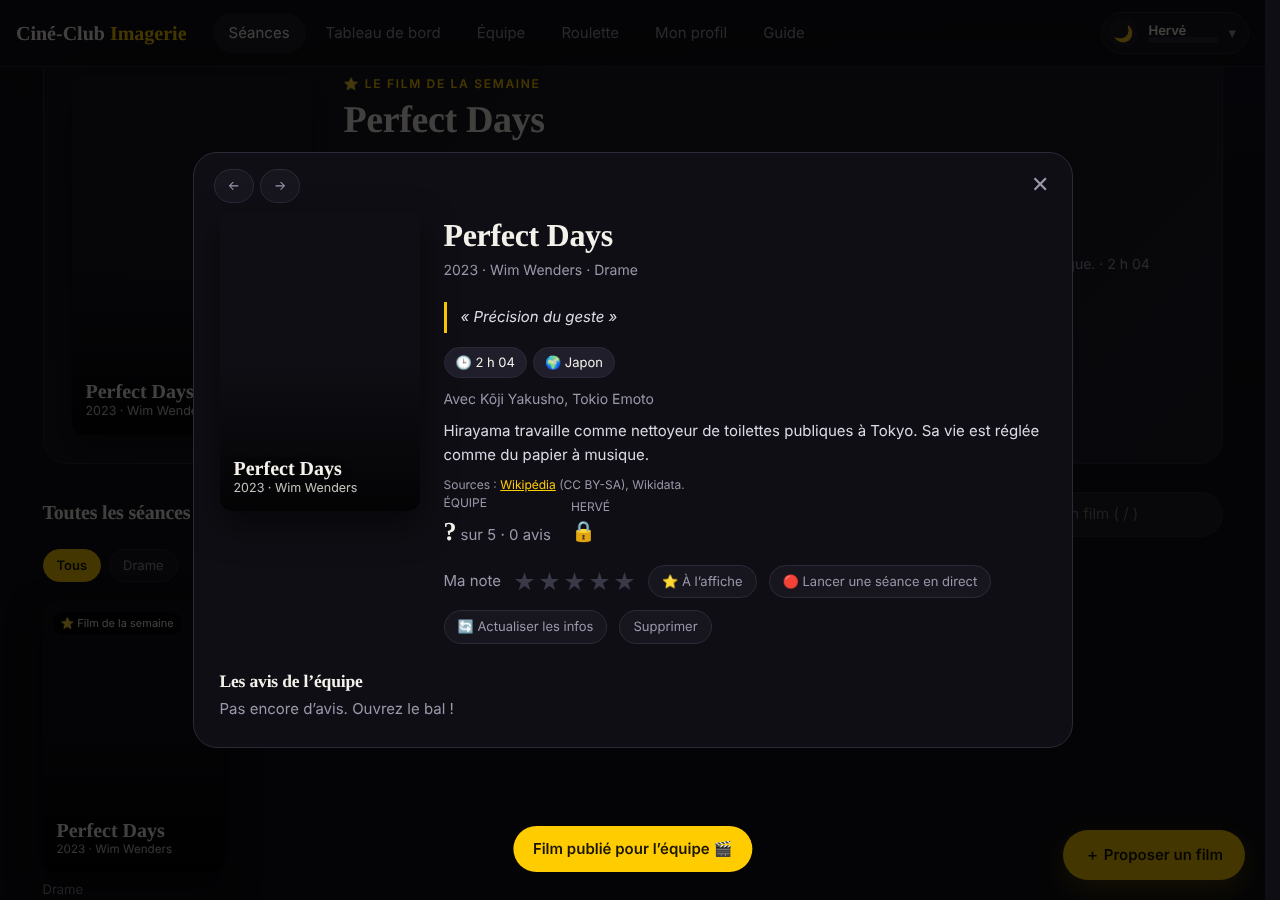
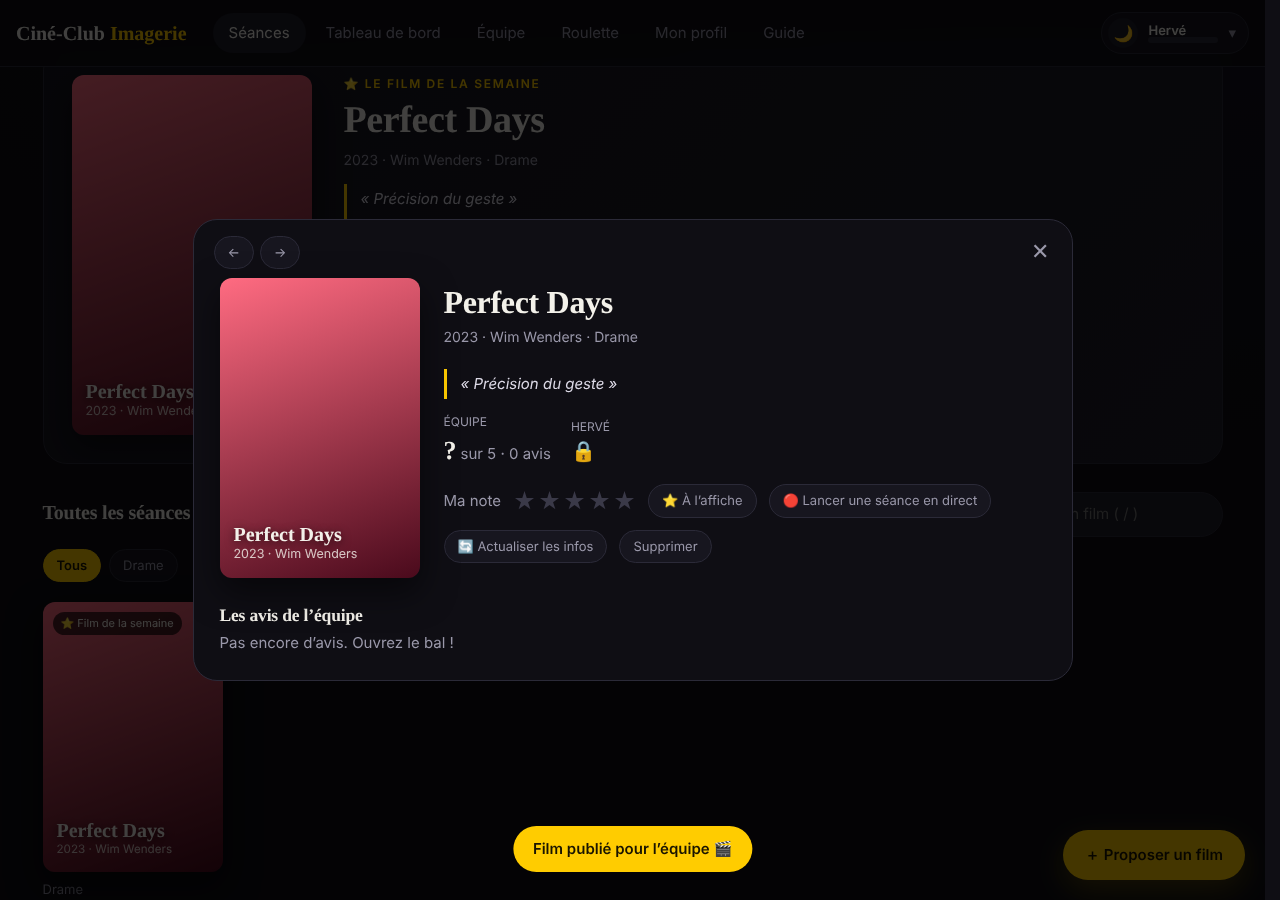
Recherche de films plus pertinente : résultats dédoublonnés, classés, avec affiches
Claude-Session: https://claude.ai/code/session_01QrDSt7c3W28WVm6o6LrgKo

Changed region(s): [[0.0312, 0.0622, 0.8125, 0.9956], [0.3438, 0.6844, 0.4688, 0.7156], [0.5, 0.6844, 0.5312, 0.7156]]

diff --git a/index.html b/index.html
@@ -126,6 +126,7 @@ nav button{padding:9px 16px}
 .mi{display:block;width:100%;text-align:left;padding:10px 12px;border-radius:10px}.mi:hover{background:var(--panel2)}
 #tip{position:fixed;z-index:300;max-width:260px;background:var(--panel2);color:var(--tx);border:1px solid var(--acc);padding:7px 11px;border-radius:10px;font-size:13px;line-height:1.4;box-shadow:0 8px 24px #000a;pointer-events:none;display:none}
 .fnav{position:absolute;left:20px;top:16px;display:flex;gap:6px}.sheet{padding-top:58px}
+.sug button{align-items:center}.sug button img,.sug .ph{width:44px;height:64px;flex:none;border-radius:6px;object-fit:cover;background:var(--panel2)}.sug .ph{display:grid;place-items:center;font-size:20px}
 </style>
 </head>
 <body>
@@ -434,7 +435,7 @@ function addModal(){const p=prefill||{};
   return`<div class="modal" data-act="close"><div class="sheet" data-stop style="width:min(620px,100%)" role="dialog" aria-label="Proposer un film"><button class="x" data-act="close" aria-label="Fermer">✕</button>
    <h2>Proposer un film</h2><p class="dim">Un titre, un mot pour l’équipe. Entrée pour publier.</p>
    <form id="addf" style="display:grid;gap:12px;margin-top:16px">
-    <div class="field"><label for="ft">Titre</label><input type="hidden" name="qid" id="fq" value="${e(p.qid||'')}"><input name="title" id="ft" required autocomplete="off" autofocus value="${e(p.title||'')}"><span class="dim" style="font-size:12px">Tapez 3 lettres : la base mondiale Wikidata propose les films et remplit les champs.</span></div>
+    <div class="field"><label for="ft">Titre</label><input type="hidden" name="qid" id="fq" value="${e(p.qid||'')}"><input name="title" id="ft" required autocomplete="off" autofocus value="${e(p.title||'')}"><span class="dim" style="font-size:12px">Tapez le titre : des propositions avec affiche apparaissent, un clic remplit les champs.</span></div>
     <div id="sug" class="sug"></div>
     <div class="field"><label for="fpitch">Pourquoi je vous le propose</label><textarea name="pitch" id="fpitch" rows="2"></textarea></div>
     <div class="row" style="flex-wrap:wrap"><div class="field" style="flex:1;min-width:90px"><label for="fy">Année</label><input name="year" id="fy" type="number" min="1890" max="2100" value="${e(p.year||'')}"></div><div class="field" style="flex:2;min-width:150px"><label for="fd">Réalisation</label><input name="director" id="fd" value="${e(p.director||'')}"></div><div class="field" style="flex:1.4;min-width:130px"><label for="fg">Genre</label><input name="genre" id="fg" list="gl" value="${e(p.genre||'Drame')}"><datalist id="gl">${GENRES.map(g=>`<option>${g}</option>`).join('')}</datalist></div></div>
@@ -524,7 +525,9 @@ const qidOf=u=>u.slice(u.lastIndexOf('/')+1);
 const LBL='SERVICE wikibase:label { bd:serviceParam wikibase:language "fr,en". }';
 function wdRows(j){const m=new Map();
   (j.results?.bindings||[]).forEach(b=>{const id=qidOf(b.f.value),t=b.fLabel?.value||'';if(!t||/^Q\d+$/.test(t))return;
-    const o=m.get(id)||{qid:id,title:t,year:'',director:'',genre:'Drame',poster:'',from:'wd'};
+    const o=m.get(id)||{qid:id,title:t,year:'',director:'',genre:'Drame',poster:'',sl:0,wiki:'',from:'wd'};
+    if(b.sl)o.sl=Math.max(o.sl,+b.sl.value||0);
+    if(b.art&&!o.wiki)o.wiki=decodeURIComponent(qidOf(b.art.value)).replace(/_/g,' ');
     if(b.year&&(!o.year||+b.year.value<+o.year))o.year=b.year.value;
     if(b.dLabel&&!o.director&&!/^Q\d+$/.test(b.dLabel.value))o.director=b.dLabel.value;
     if(b.gq){const g=WDQ[qidOf(b.gq.value)];if(g)o.genre=g}
@@ -548,14 +551,31 @@ async function wdPool(genre,y0){
 async function wdPoster(qid){
   const j=await sparql(`SELECT ?pf ?im WHERE { OPTIONAL { wd:${qid} wdt:P3383 ?pf } OPTIONAL { wd:${qid} wdt:P18 ?im } } LIMIT 1`);
   const b=j.results?.bindings?.[0];const u=b?.pf?.value||b?.im?.value;return u?u.replace(/^http:/,'https:')+'?width=400':''}
+const norm=t=>String(t||'').toLowerCase().normalize('NFD').replace(/[̀-ͯ]/g,'').replace(/[^a-z0-9]+/g,' ').trim();
+function localSearch(q){const n=norm(q);if(n.length<2)return[];
+  return CAT.filter(c=>norm(c[0]).includes(n)).sort((a,b)=>(norm(a[0]).startsWith(n)?0:1)-(norm(b[0]).startsWith(n)?0:1)).slice(0,5).map(([title,year,director,genre])=>({qid:'',title,year:String(year),director,genre,poster:'',sl:0,wiki:'',from:'cat'}))}
+function mergeResults(list,q){const n=norm(q),map=new Map();
+  list.forEach(x=>{const k=norm(x.title)+'|'+(x.year||'');const o=map.get(k);
+    if(!o)map.set(k,{...x});else{if(!o.qid&&x.qid)o.qid=x.qid;if(!o.poster&&x.poster)o.poster=x.poster;if(!o.director&&x.director)o.director=x.director;if(!o.wiki&&x.wiki)o.wiki=x.wiki;o.sl=Math.max(o.sl||0,x.sl||0)}});
+  const arr=[...map.values()],dated=new Set(arr.filter(x=>x.year).map(x=>norm(x.title)));
+  const rank=x=>{const t=norm(x.title);return t===n?0:t.startsWith(n)?1:t.includes(n)?2:3};
+  return arr.filter(x=>x.year||!dated.has(norm(x.title))).sort((a,b)=>rank(a)-rank(b)||(b.sl||0)-(a.sl||0)).slice(0,8)}
+async function wikiThumbs(items){
+  const todo=items.filter(x=>!x.poster&&x.wiki);if(!todo.length)return;
+  try{const j=await wdGet('https://fr.wikipedia.org/w/api.php?action=query&prop=pageimages&piprop=thumbnail&pithumbsize=400&redirects=1&format=json&origin=*&titles='+encodeURIComponent(todo.map(x=>x.wiki).join('|')),10000);
+    const img=new Map(),al=new Map();Object.values(j.query?.pages||{}).forEach(p=>p.thumbnail&&img.set(p.title,p.thumbnail.source));
+    [...(j.query?.normalized||[]),...(j.query?.redirects||[])].forEach(r=>al.set(r.from,r.to));
+    todo.forEach(x=>{let n=x.wiki;n=al.get(n)||n;n=al.get(n)||n;const u=img.get(n);if(u)x.poster=u})}catch{}}
 async function wdSearch(text){
-  const u=c=>'https://www.wikidata.org/w/api.php?action=query&list=search&srsearch='+encodeURIComponent('haswbstatement:P31='+c+' '+text)+'&srlimit=6&format=json&origin=*';
-  const rs=await Promise.all(['Q11424','Q202866','Q93204'].map(c=>wdGet(u(c),10000).catch(()=>null)));
-  const ids=[...new Set(rs.flatMap(r=>(r?.query?.search||[]).map(x=>x.title)))].filter(x=>/^Q\d+$/.test(x)).slice(0,8);
+  const api=l=>'https://www.wikidata.org/w/api.php?action=wbsearchentities&search='+encodeURIComponent(text)+'&language='+l+'&uselang='+l+'&type=item&limit=30&format=json&origin=*';
+  const rs=await Promise.all(['fr','en'].map(l=>wdGet(api(l),10000).catch(()=>null)));
+  const ids=[...new Set(rs.flatMap(r=>(r?.search||[]).map(x=>x.id)))].filter(x=>/^Q\d+$/.test(x)).slice(0,50);
   if(!ids.length)return[];
-  const q=`SELECT ?f ?fLabel ?year ?gq ?dLabel ?pf WHERE { VALUES ?f { ${ids.map(i=>'wd:'+i).join(' ')} }
-    OPTIONAL { ?f wdt:P577 ?date } BIND(YEAR(?date) AS ?year) OPTIONAL { ?f wdt:P57 ?d } OPTIONAL { ?f wdt:P136 ?gq } OPTIONAL { ?f wdt:P3383 ?pf } ${LBL} }`;
-  return wdRows(await sparql(q)).sort((a,b)=>ids.indexOf(a.qid)-ids.indexOf(b.qid))}
+  const q=`SELECT ?f ?fLabel ?year ?gq ?dLabel ?pf ?sl ?art WHERE { VALUES ?f { ${ids.map(i=>'wd:'+i).join(' ')} }
+    ?f wdt:P31/wdt:P279* wd:Q11424 . FILTER NOT EXISTS { ?f wdt:P31 wd:Q24862 } FILTER NOT EXISTS { ?f wdt:P31/wdt:P279* wd:Q5398426 }
+    ?f wikibase:sitelinks ?sl . OPTIONAL { ?f wdt:P577 ?date } BIND(YEAR(?date) AS ?year) OPTIONAL { ?f wdt:P57 ?d } OPTIONAL { ?f wdt:P136 ?gq } OPTIONAL { ?f wdt:P3383 ?pf }
+    OPTIONAL { ?art schema:about ?f ; schema:isPartOf <https://fr.wikipedia.org/> } ${LBL} } LIMIT 600`;
+  const res=mergeResults(wdRows(await sparql(q,15000)),text);await wikiThumbs(res);return res}
 
 /* fiche film : Wikidata + Wikipédia (+ TMDB si une clé est fournie dans config.js) */
 const tmdbKey=()=>(window.CINECLUB||{}).tmdbKey||'';
@@ -563,7 +583,7 @@ const hm=m=>m>=60?`${Math.floor(m/60)} h ${String(m%60).padStart(2,'0')}`:`${m} 
 const triedEnrich=new Set();
 async function fetchDetails(f){
   const patch={};let qid=f.qid;
-  if(!qid){try{const r=await wdSearch(f.title);const m=(f.year?r.find(x=>String(x.year)===String(f.year)):null)||r[0];
+  if(!qid){try{const r=(await wdSearch(f.title)).filter(x=>x.qid);const m=(f.year?r.find(x=>String(x.year)===String(f.year)):null)||r[0];
     if(m){qid=m.qid;if(!f.director&&m.director)patch.director=m.director;if(!f.year&&m.year)patch.year=m.year;if(m.poster)patch.poster=m.poster}}catch{}}
   let wikiName='',imdb='',cast=[],country='',dur=0,pf='';
   if(qid){patch.qid=qid;
@@ -832,8 +852,11 @@ document.addEventListener('submit',async ev=>{
 document.addEventListener('input',ev=>{
   if(ev.target.id==='q'){q=ev.target.value;render()}
   if(ev.target.id==='txt')dTxt=ev.target.value;
-  if(ev.target.id==='ft'){clearTimeout(acT);const v=ev.target.value.trim();if(v.length<3){const z=$('#sug');if(z)z.innerHTML='';return}
-    acT=setTimeout(async()=>{try{const r=await wdSearch(v);if($('#ft')?.value.trim()!==v)return;$('#sug').innerHTML=r.map(m=>`<button type="button" data-s='${e(JSON.stringify(m))}'>🎞 <span><b>${e(m.title)}</b> <span class="dim">${e(m.year)}${m.director?' · '+e(m.director):''}</span></span></button>`).join('')}catch{}},400)}
+  if(ev.target.id==='ft'){clearTimeout(acT);const v=ev.target.value.trim(),z=$('#sug');if(!z)return;
+    const show=(r,wait)=>{z.innerHTML=r.map(m=>`<button type="button" data-s='${e(JSON.stringify(m))}'>${m.poster?`<img src="${e(m.poster)}" alt="" loading="lazy" onerror="this.replaceWith(Object.assign(document.createElement('span'),{className:'ph',textContent:'🎞'}))">`:'<span class="ph">🎞</span>'}<span><b>${e(m.title)}</b> <span class="dim">${e(m.year)}${m.director?' · '+e(m.director):''}</span><br><span class="dim" style="font-size:12px">${e(m.genre||'')}</span></span></button>`).join('')+(wait?'<p class="dim" style="font-size:13px">Recherche dans la base mondiale…</p>':!r.length&&v.length>=3?'<p class="dim" style="font-size:13px">Aucun résultat. Saisissez le titre à la main : les infos seront cherchées après la publication.</p>':'')};
+    if(v.length<2){z.innerHTML='';return}
+    show(localSearch(v),v.length>=3);if(v.length<3)return;
+    acT=setTimeout(async()=>{try{const r=await wdSearch(v);if($('#ft')?.value.trim()!==v)return;show(mergeResults([...localSearch(v),...r],v),false)}catch{if($('#ft')?.value.trim()===v)show(localSearch(v),false)}},350)}
   if(ev.target.id==='shot')dShot=ev.target.value;
 });
 
